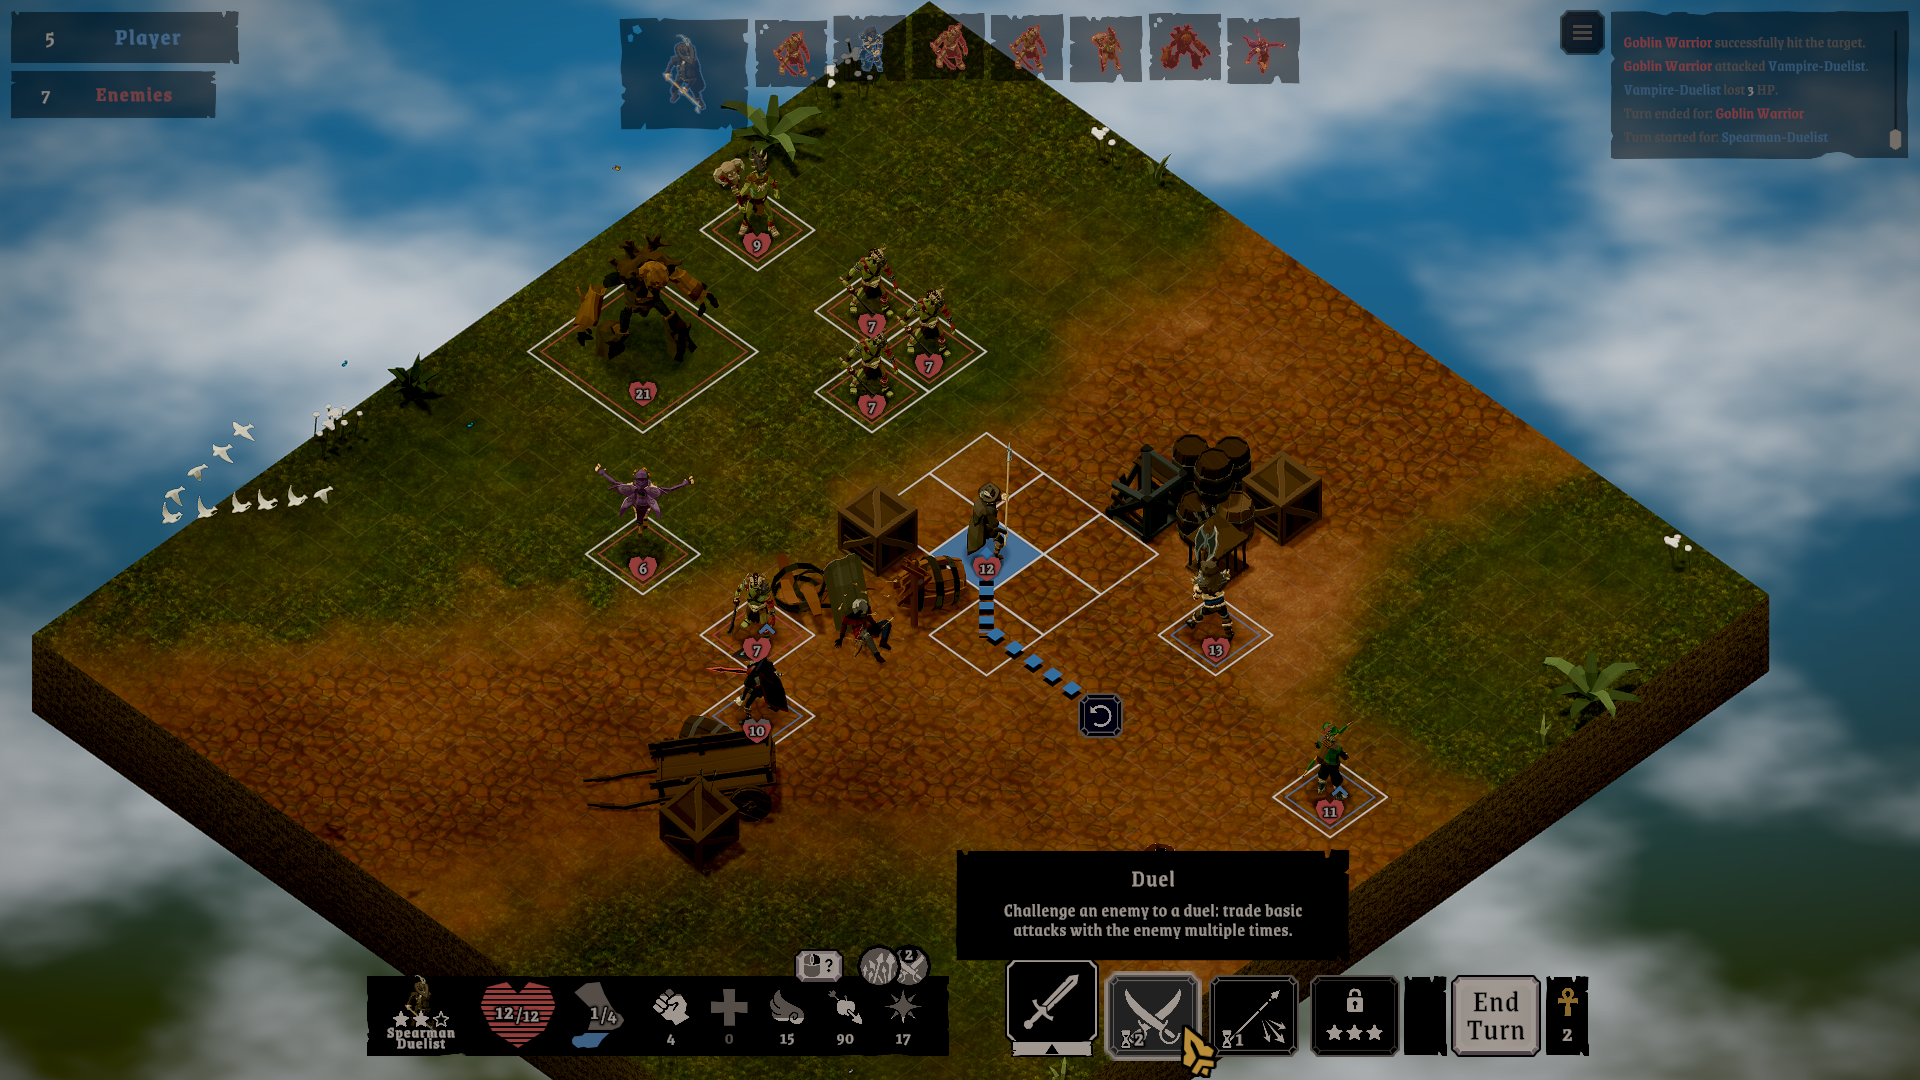
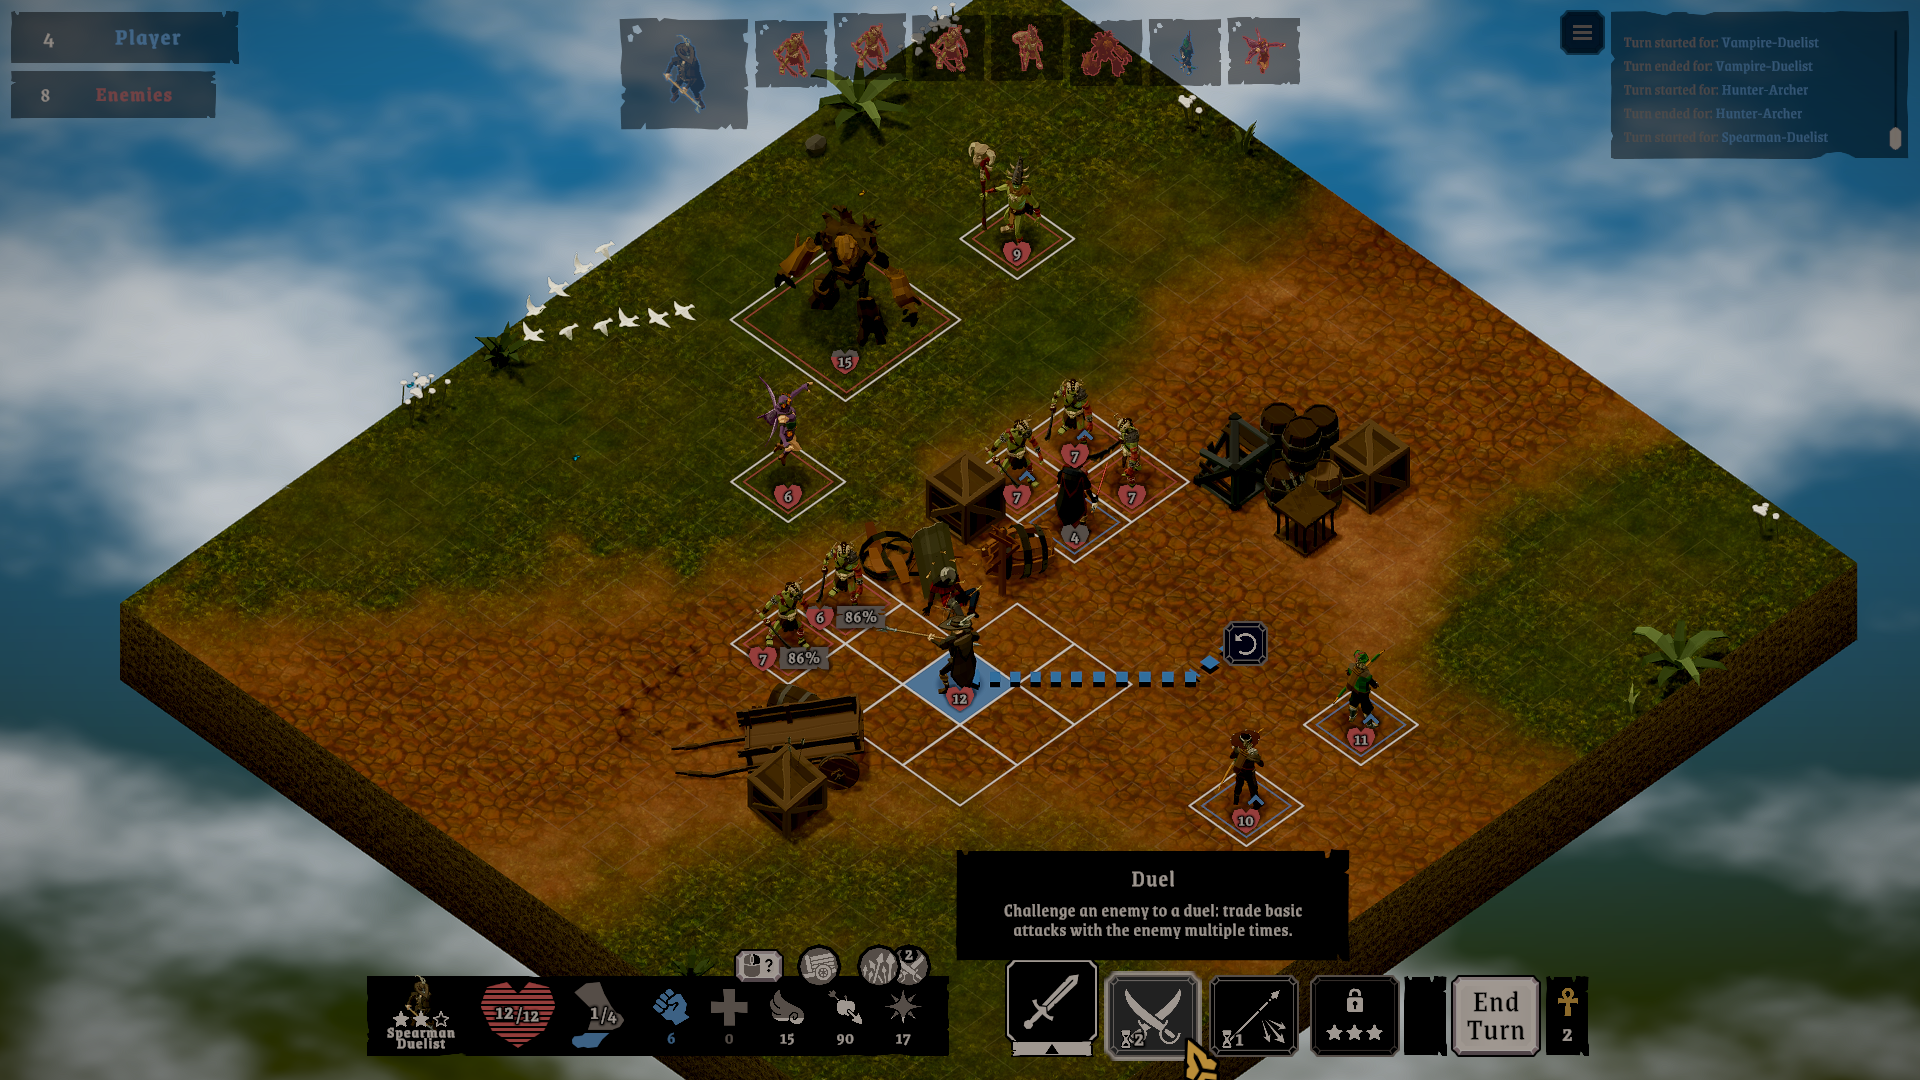
another screenshot change

diff --git a/index.html b/index.html
@@ -91,7 +91,7 @@ footer{margin-top:82px;font-size:14.5px;color:var(--grey)}
 <section>
   <h2>Download the Press Kit</h2>
   <div class="btnrow">
-    <a class="dl" href="https://drive.google.com/uc?export=download&id=1FYE6V0i3FHO-A4xV-zCzSOuO_eR09lTg">Download the Press Kit (38 MB)</a>
+    <a class="dl" href="https://drive.google.com/uc?export=download&id=1l3ASoTfXNjkJUToqzAPwd-kfeaSZPwhi">Download the Press Kit (38 MB)</a>
     <a class="dl" href="https://drive.google.com/uc?export=download&id=13XMrZXuF6Wa65jziN9Dj6qFQZhAFSxjr">Download the trailer (220 MB)</a>
   </div>
 </section>
@@ -221,7 +221,7 @@ footer{margin-top:82px;font-size:14.5px;color:var(--grey)}
 <section>
   <h2>Download the Press Kit</h2>
   <div class="btnrow">
-    <a class="dl" href="https://drive.google.com/uc?export=download&id=1FYE6V0i3FHO-A4xV-zCzSOuO_eR09lTg">Download the Press Kit (38 MB)</a>
+    <a class="dl" href="https://drive.google.com/uc?export=download&id=1l3ASoTfXNjkJUToqzAPwd-kfeaSZPwhi">Download the Press Kit (38 MB)</a>
     <a class="dl" href="https://drive.google.com/uc?export=download&id=13XMrZXuF6Wa65jziN9Dj6qFQZhAFSxjr">Download the trailer (220 MB)</a>
   </div>
 </section>
